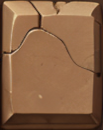
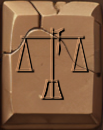
Added hover images for the buttons in the bottom left UI; added a button to open/close the market to that panel (or use M on the keyboard); updated the statistics button to give it a proper hieroglyph; removed separate bools for tracking key presses in favor of InputManager.WasPressed(Keys.*)

Changed region(s): [[0.1456, 0.2154, 0.8738, 0.7692]]

diff --git a/GameManager/GameManager.cs b/GameManager/GameManager.cs
@@ -69,21 +69,49 @@ public class GameManager
         _buttonPanel.SetMargin(left: 49, top: 70);
         _buttonPanel.SetPadding(right: -20, bottom: -170);
 
+        Sprite[] hoverButtons = new Sprite[8];
+        for (int i = 0; i < hoverButtons.Length; i++)
+            hoverButtons[i] = Sprite.Create(Sprites.BottomLeftButtonsHover[i], Vector2.Zero);
+
         UIElement buildElement = new(
             Sprites.BottomLeftButtons[0], 
             onClick: BuildButton, 
-            onHover: UI.SetTooltipText);
-        buildElement.TooltipText = "(B)uild";
-
+            onHover: UI.SetTooltipText,
+            tooltip: "(B)uild",
+            hoverImage: hoverButtons[0]);
         _buttonPanel.SetContent(0, 0, buildElement);
-        _buttonPanel.SetContent(1, 0, new UIElement(Sprites.BottomLeftButtons[1], 
-            onClick: TileButton, onHover: UI.SetTooltipText, tooltip: "Buy (T)ile"));
-        _buttonPanel.SetContent(2, 0, new UIElement(Sprites.BottomLeftButtons[2], onClick: Button3));
-        _buttonPanel.SetContent(0, 1, new UIElement(Sprites.BottomLeftButtons[3], onClick: Button4));
-        _buttonPanel.SetContent(1, 1, new UIElement(Sprites.BottomLeftButtons[4], 
-            onHover: UI.SetTooltipText, tooltip: "Statistics(X)", onClick: ToggleStatistics));
-        _buttonPanel.SetContent(2, 1, new UIElement(Sprites.BottomLeftButtons[5], 
-            onHover: UI.SetTooltipText, tooltip: "(I)nventory", onClick: ToggleGoodsDisplay));
+
+        _buttonPanel.SetContent(1, 0, new UIElement(
+            Sprites.BottomLeftButtons[1], 
+            onClick: TileButton, 
+            onHover: UI.SetTooltipText, 
+            tooltip: "Buy (T)ile",
+            hoverImage: hoverButtons[1]));
+
+        _buttonPanel.SetContent(2, 0, new UIElement(
+            Sprites.BottomLeftButtons[2], 
+            onClick: Button3));
+
+        _buttonPanel.SetContent(0, 1, new UIElement(
+            Sprites.BottomLeftButtons[3], 
+            onClick: ToggleMarketPanel,
+            onHover: UI.SetTooltipText,
+            tooltip: "(M)arket",
+            hoverImage: hoverButtons[3]));
+
+        _buttonPanel.SetContent(1, 1, new UIElement(
+            Sprites.BottomLeftButtons[4], 
+            onHover: UI.SetTooltipText, 
+            tooltip: "Statistics(X)", 
+            onClick: ToggleStatistics,
+            hoverImage: hoverButtons[4]));
+
+        _buttonPanel.SetContent(2, 1, new UIElement(
+            Sprites.BottomLeftButtons[5], 
+            onHover: UI.SetTooltipText, 
+            tooltip: "(I)nventory", 
+            onClick: ToggleGoodsDisplay,
+            hoverImage: hoverButtons[5]));
 
         UI.AddElement(_buttonPanel, UI.Position.BOTTOM_LEFT);
 
@@ -170,7 +198,7 @@ public class GameManager
         }
     }
 
-    public void BuildButton(Object clicked)
+    public void BuildButton(Object clicked = null)
     {
         if (_bottomPanel.Hidden)
         {
@@ -211,7 +239,7 @@ public class GameManager
             _personPanel.Unhide();
     }
 
-    public static void ToggleMarketPanel()
+    public static void ToggleMarketPanel(Object clicked = null)
     {
         if (MarketPanel.Hidden)
             MarketPanel.Unhide();
@@ -240,12 +268,7 @@ public class GameManager
         Console.WriteLine("Button 3 pressed");
     }
 
-    public void Button4(Object clicked)
-    {
-        Console.WriteLine("Button 4 pressed");
-    }
-
-    public void ToggleStatistics(Object clicked)
+    public void ToggleStatistics(Object clicked = null)
     {
         // Update once on un-hide
         if (_statsPanel.Hidden)
@@ -265,7 +288,7 @@ public class GameManager
         escMenuPanel.ToggleHidden();
     }
 
-    public void ToggleGoodsDisplay(Object clicked)
+    public void ToggleGoodsDisplay(Object clicked = null)
     {
         if (inventoryPanel.Hidden)
             inventoryPanel.Unhide();
@@ -279,27 +302,30 @@ public class GameManager
 
         Model.GameCamera.UpdateCamera(KatabasisGame.Viewport);
 
-        if (InputManager.PlusPressed)
+        if (InputManager.WasPressed(Keys.OemPlus))
         {
             UI.ScaleUp(0.05f);
             _buttonPanel.ScaleUp(0.05f);
         }
-        else if (InputManager.MinusPressed)
+        else if (InputManager.WasPressed(Keys.OemMinus))
         {
             UI.ScaleDown(0.05f);
             _buttonPanel.ScaleDown(0.05f);
         }
         
-        if (InputManager.BPressed)
-            BuildButton(null);
+        if (InputManager.WasPressed(Keys.B))
+            BuildButton();
 
-        if (InputManager.IPressed)
-            ToggleGoodsDisplay(null);
+        if (InputManager.WasPressed(Keys.I))
+            ToggleGoodsDisplay();
 
-        if (InputManager.XPressed)
-            ToggleStatistics(null);
+        if (InputManager.WasPressed(Keys.X))
+            ToggleStatistics();
 
-        if (InputManager.FPressed)
+        if (InputManager.WasPressed(Keys.M))
+            ToggleMarketPanel();
+
+        if (InputManager.WasPressed(Keys.F))
             Config.ShowFog = !Config.ShowFog;
 
         escMenuPanel.Update();

diff --git a/GameManager/InputManager.cs b/GameManager/InputManager.cs
@@ -21,14 +21,6 @@ public static class InputManager
     public static bool MouseDown;
     public static bool RClicked;
 
-    // Pressing B no longer toggles build mode, it just toggles the build ui
-    // clicking on a building type in the UI is what enables build mode
-    public static bool BPressed;
-    public static bool IPressed;
-    public static bool XPressed;
-    public static bool FPressed;
-    public static bool PlusPressed;
-    public static bool MinusPressed;
     public static bool ShiftHeld;
     public static bool SavePressed;
     public static bool LoadPressed;
@@ -197,13 +189,6 @@ public static class InputManager
         }
 
         MouseDown = (mouseState.LeftButton == ButtonState.Pressed);
-
-        BPressed = keyboardState.IsKeyUp(Keys.B) && lastKeyboardState.IsKeyDown(Keys.B);
-        IPressed = keyboardState.IsKeyUp(Keys.I) && lastKeyboardState.IsKeyDown(Keys.I);
-        XPressed = keyboardState.IsKeyUp(Keys.X) && lastKeyboardState.IsKeyDown(Keys.X);
-        FPressed = keyboardState.IsKeyUp(Keys.F) && lastKeyboardState.IsKeyDown(Keys.F);
-        PlusPressed = keyboardState.IsKeyUp(Keys.OemPlus) && lastKeyboardState.IsKeyDown(Keys.OemPlus);
-        MinusPressed = keyboardState.IsKeyUp(Keys.OemMinus) && lastKeyboardState.IsKeyDown(Keys.OemMinus);
         
         ShiftHeld = (keyboardState.IsKeyDown(Keys.LeftShift) && lastKeyboardState.IsKeyDown(Keys.LeftShift)) ||
                     (keyboardState.IsKeyDown(Keys.RightShift) && lastKeyboardState.IsKeyDown(Keys.RightShift));

diff --git a/UI/UIElement.cs b/UI/UIElement.cs
@@ -29,7 +29,8 @@ public class UIElement
         Action<Object> onClick = null, 
         Action<Object> onHover = null,
         string tooltip = "",
-        UIElement hoverElement = null)
+        UIElement hoverElement = null,
+        Sprite hoverImage = null)
     {
         if (texture != null)
         {
@@ -49,11 +50,11 @@ public class UIElement
         OnHover = onHover;
         TooltipText = tooltip;
         HoverElement = hoverElement;
+        HoverImage = hoverImage;
         Name = "";
         Hidden = false;
         SelectedImage = null;
 
-        HoverImage = null;
         Hovering = false;
 
         IsSelected = false;
@@ -254,6 +255,15 @@ public class UIElement
         Scale *= new Vector2(1 + s, 1 + s);
         if (Image != null)
             Image.ScaleUp(s);
+
+        if (HoverImage != null)
+            HoverImage.ScaleUp(s);
+
+        if (SelectedImage != null)
+            SelectedImage.ScaleUp(s);
+
+        if (HoverElement != null)
+            HoverElement.ScaleUp(s);
     }
 
     public virtual void ScaleDown(float s)
@@ -261,6 +271,15 @@ public class UIElement
         Scale *= new Vector2(1 - s, 1 - s);
         if (Image != null)
             Image.ScaleDown(s);
+
+        if (HoverImage != null)
+            HoverImage.ScaleDown(s);
+
+        if (SelectedImage != null)
+            SelectedImage.ScaleDown(s);
+
+        if (HoverElement != null)
+            HoverElement.ScaleDown(s);
     }
 
     public void AddSelectedImage(SpriteTexture texture)

diff --git a/UI/UI.cs b/UI/UI.cs
@@ -24,7 +24,7 @@ static class UI
         BottomLeft = new();
         TopRight = new();
         BottomRight = new();
-        Tooltip = new(Sprites.Tooltip);
+        Tooltip = new(/*Sprites.Tooltip*/);
         TooltipText = new TextSprite(Sprites.Font);
         TooltipText.ScaleUp(0.1f);
     }
@@ -46,7 +46,9 @@ static class UI
         // Tooltip text needs to be cleared to disable hover,
         // must be cleared before updating UI elements, which will update on hover
         TooltipText.Text = "";
-        Tooltip.Image.Position = InputManager.ScreenMousePos + new Vector2(15f, -15f);
+
+        if (Tooltip.Image != null)
+            Tooltip.Image.Position = InputManager.ScreenMousePos + new Vector2(15f, -15f);
 
         List<UIElement>[] all = { Top, TopLeft, TopRight, BottomLeft, BottomRight };
         foreach (List<UIElement> list in all)
@@ -117,8 +119,11 @@ static class UI
         }
 
         // Resize tooltip box to fit text
-        float ratio = (float)TooltipText.Width() / Tooltip.Image.Texture.Width;
-        Tooltip.Image.SetScaleX(ratio + 0.07f);
+        if (Tooltip.Image != null)
+        {
+            float ratio = (float)TooltipText.Width() / Tooltip.Image.Texture.Width;
+            Tooltip.Image.SetScaleX(ratio + 0.07f);
+        }
 
         // Draw tooltip at cursor if the text is set
         if (TooltipText.Text.Length > 0)

diff --git a/DataClasses/Sprites.cs b/DataClasses/Sprites.cs
@@ -89,6 +89,7 @@ static class Sprites
 	public static SpriteTexture TallPanel;
 	public static SpriteTexture SmallPanel;
 	public static List<SpriteTexture> BottomLeftButtons;
+	public static List<SpriteTexture> BottomLeftButtonsHover;
 	public static SpriteTexture Tooltip;
 	public static SpriteTexture VerticalGreenBar;
 	public static SpriteTexture VerticalBar;
@@ -212,6 +213,7 @@ static class Sprites
 		TallPanel = LoadTexture("UI_maybe/tall_panel");
 		SmallPanel = LoadTexture("UI_maybe/small_panel");
 		BottomLeftButtons = LoadTextures("UI_maybe/buttons", 8);
+		BottomLeftButtonsHover = LoadTextures("UI_maybe/buttons/hover", 8);
 		Tooltip = LoadTexture("UI_maybe/tooltip");
 		VerticalGreenBar = LoadTexture("UI_maybe/vertical_green_bar");
 		VerticalBar = LoadTexture("UI_maybe/vertical_bar");
